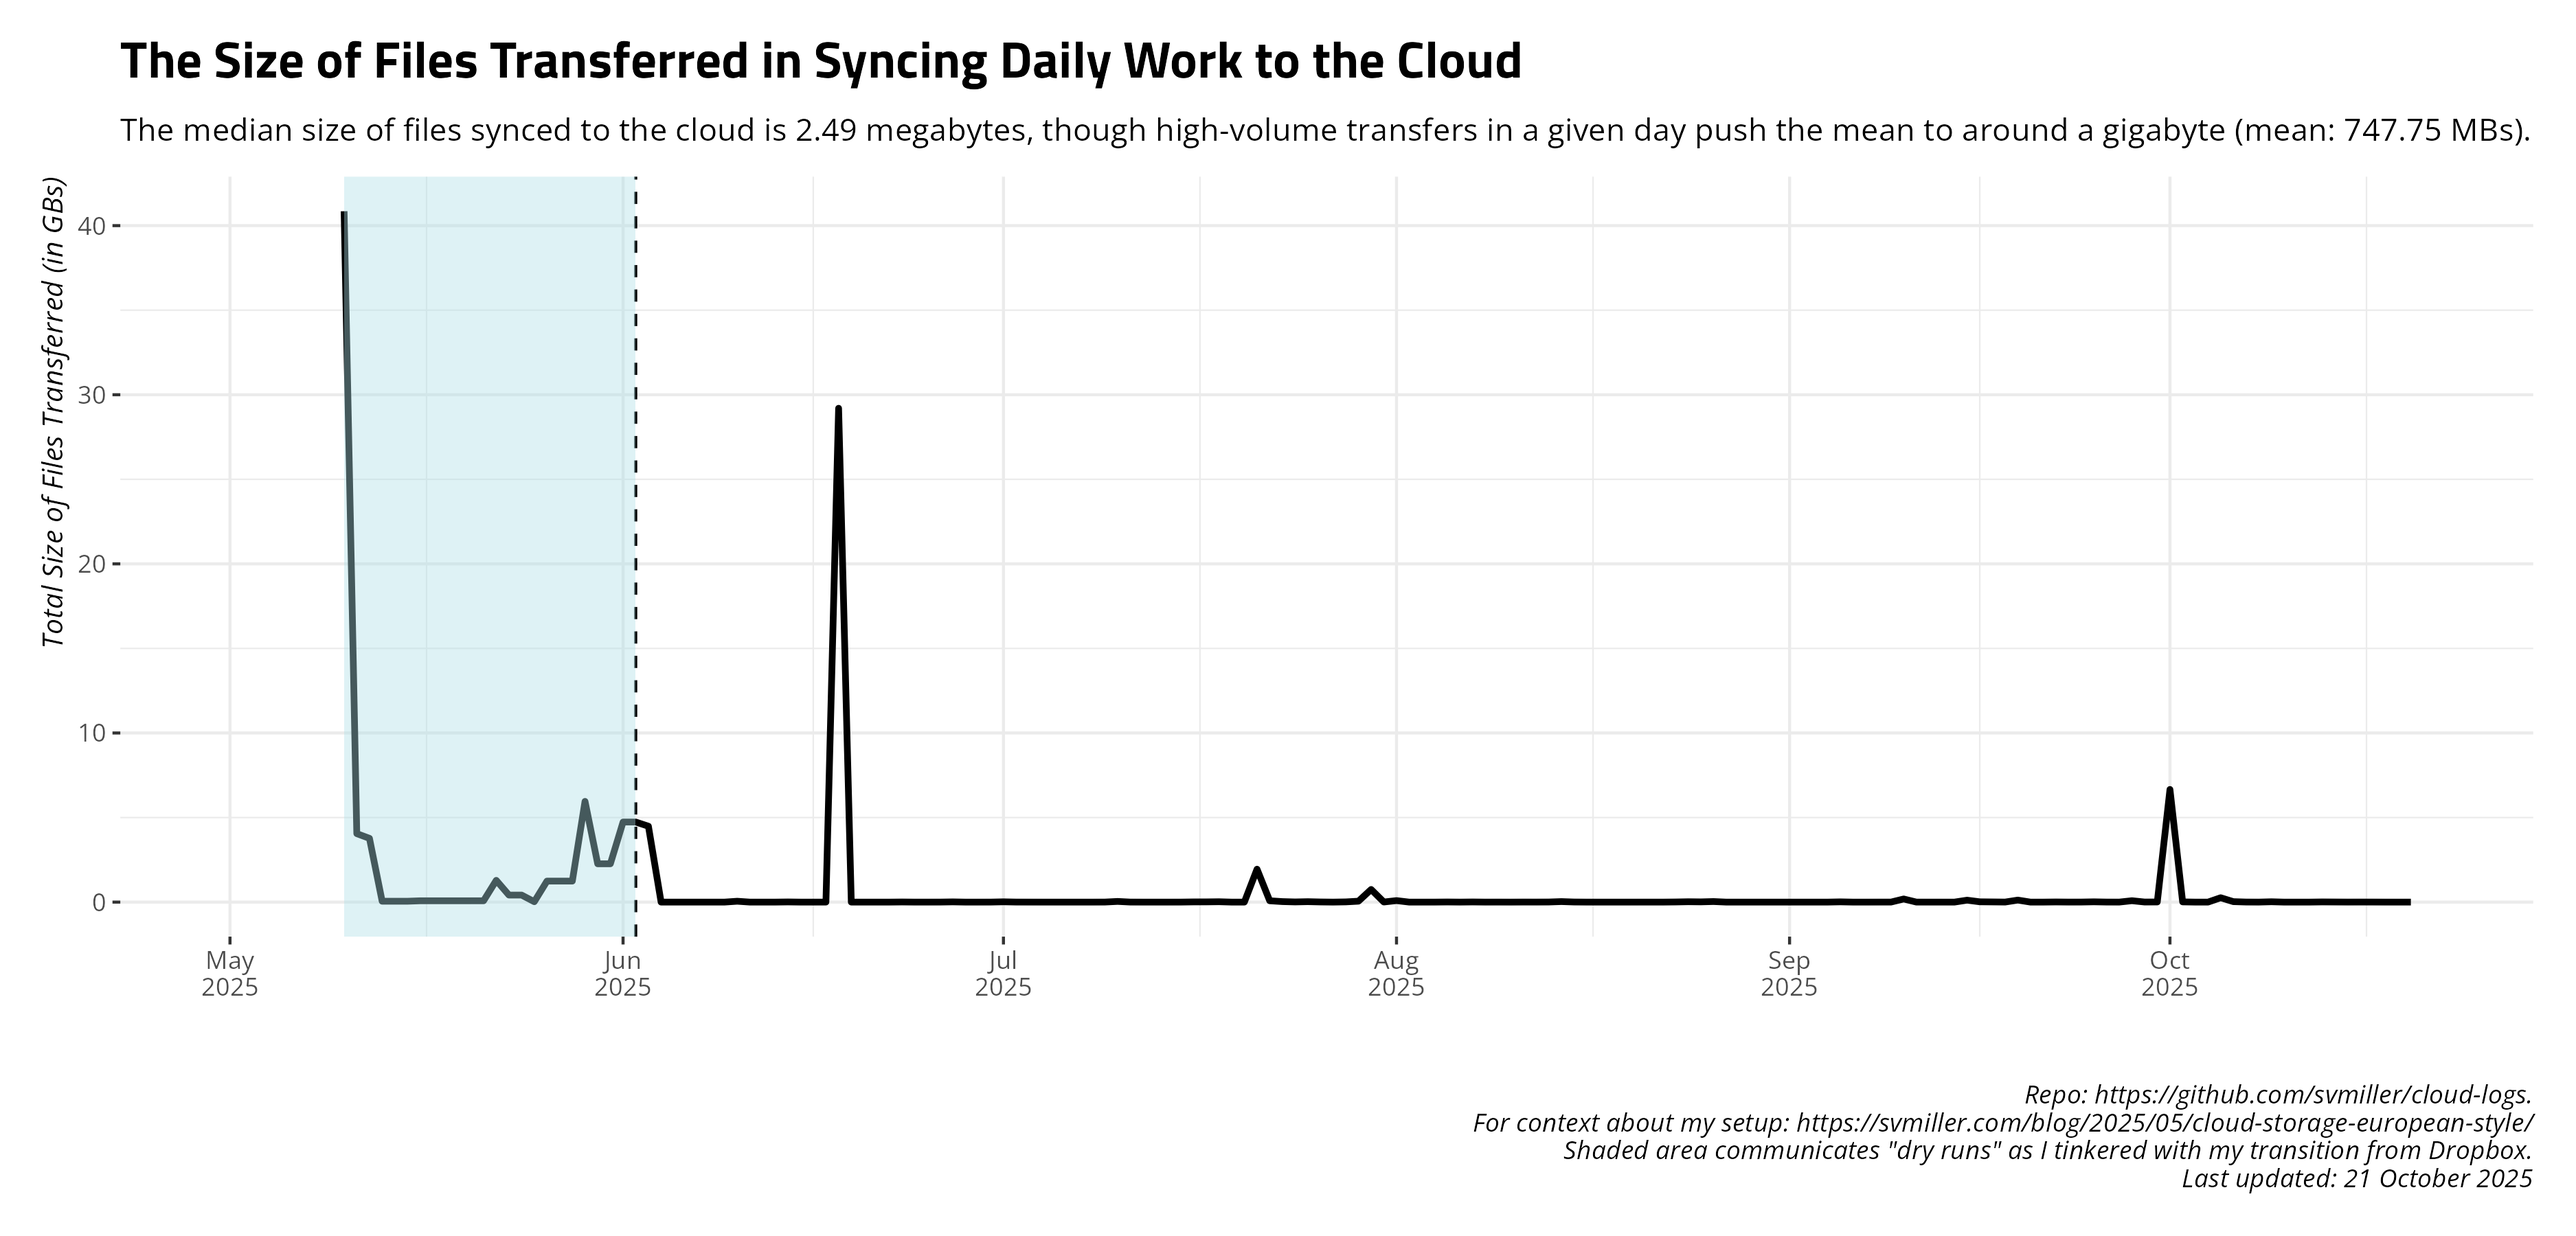
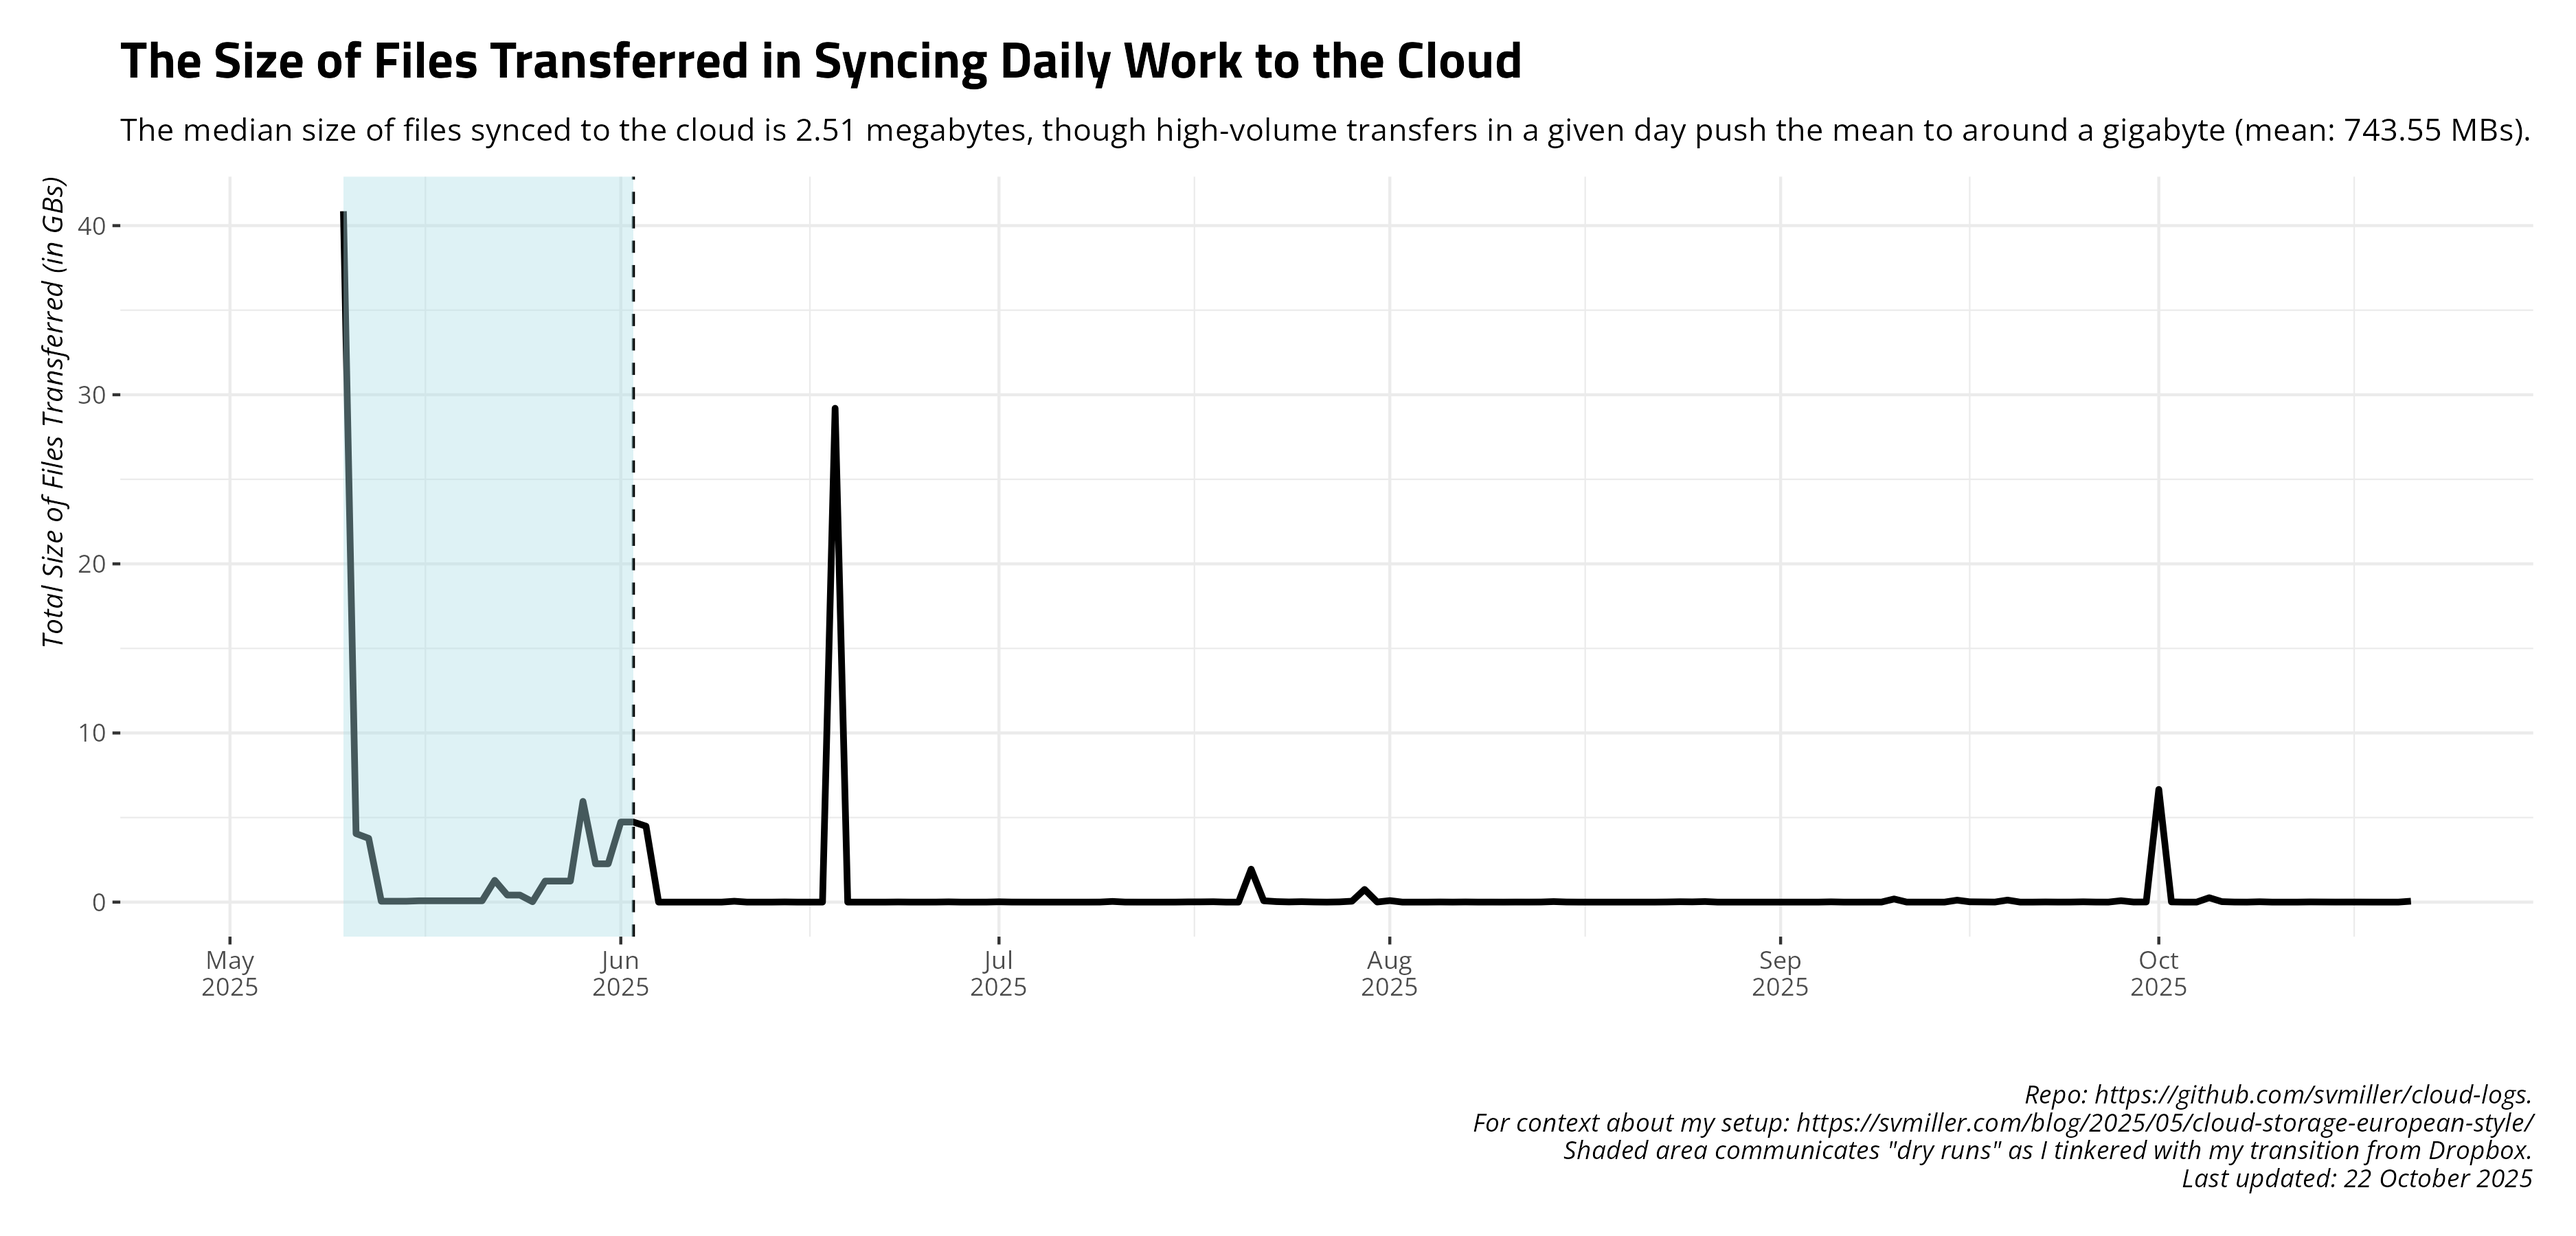
Date: 2025-10-22 09:00:15. Hi mom!

diff --git a/README.md b/README.md
@@ -27,17 +27,17 @@ and uploads to Github.
     #> # A tibble: 14 × 4
     #>    date       ftransfer stransfer   elapsed
     #>    <date>         <dbl> <chr>       <chr>  
-    #>  1 2025-10-07       117 4.095 MiB   4m42.1s
-    #>  2 2025-10-08        47 591.214 KiB 5m20.9s
-    #>  3 2025-10-09        85 20.453 MiB  4m0.2s 
-    #>  4 2025-10-10        28 34.344 KiB  5m16.9s
-    #>  5 2025-10-11         0 <NA>        5m16.8s
-    #>  6 2025-10-12        19 111.027 KiB 4m24.8s
-    #>  7 2025-10-13       153 10.286 MiB  4m38.6s
-    #>  8 2025-10-14       157 6.146 MiB   4m43.3s
-    #>  9 2025-10-15       126 2.207 MiB   4m9.6s 
-    #> 10 2025-10-16        73 3.849 MiB   4m10.2s
-    #> 11 2025-10-17       113 3.125 MiB   4m52.3s
-    #> 12 2025-10-18        48 633.468 KiB 4m30.2s
-    #> 13 2025-10-19        22 67.056 KiB  4m43.2s
-    #> 14 2025-10-20        37 397.260 KiB 4m53.9s
+    #>  1 2025-10-08        47 591.214 KiB 5m20.9s
+    #>  2 2025-10-09        85 20.453 MiB  4m0.2s 
+    #>  3 2025-10-10        28 34.344 KiB  5m16.9s
+    #>  4 2025-10-11         0 <NA>        5m16.8s
+    #>  5 2025-10-12        19 111.027 KiB 4m24.8s
+    #>  6 2025-10-13       153 10.286 MiB  4m38.6s
+    #>  7 2025-10-14       157 6.146 MiB   4m43.3s
+    #>  8 2025-10-15       126 2.207 MiB   4m9.6s 
+    #>  9 2025-10-16        73 3.849 MiB   4m10.2s
+    #> 10 2025-10-17       113 3.125 MiB   4m52.3s
+    #> 11 2025-10-18        48 633.468 KiB 4m30.2s
+    #> 12 2025-10-19        22 67.056 KiB  4m43.2s
+    #> 13 2025-10-20        37 397.260 KiB 4m53.9s
+    #> 14 2025-10-21       332 55.643 MiB  4m15.2s
